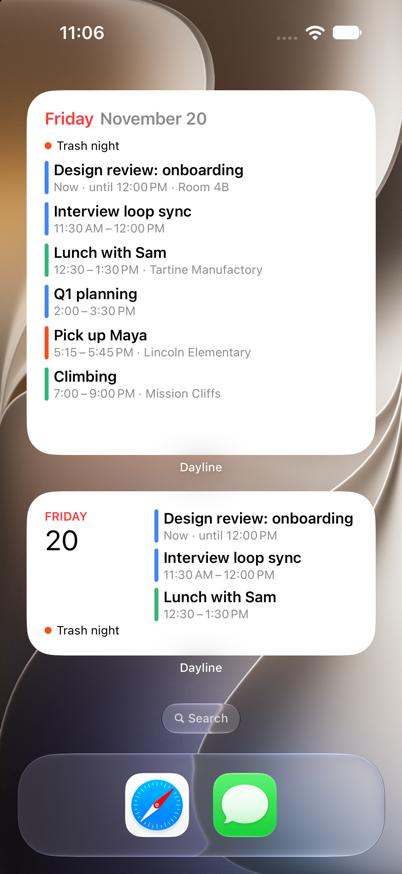
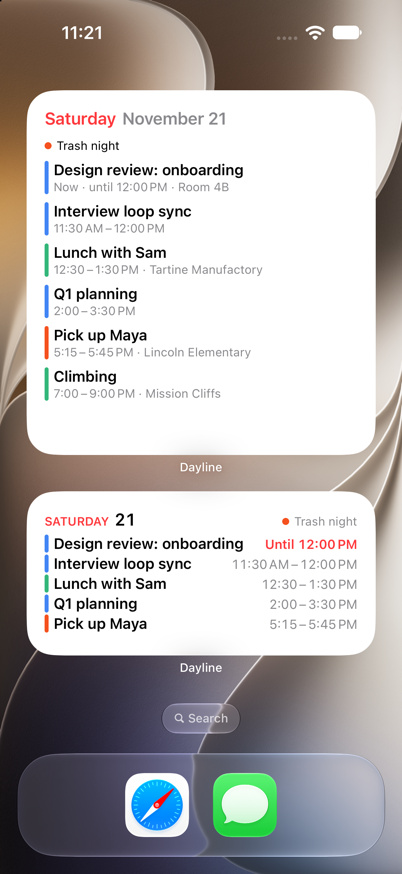
feat: one-line rows in the medium widget (#11)

Changed region(s): [[0.0896, 0.587, 0.8955, 0.7414], [0.1194, 0.1236, 0.5672, 0.1545], [0.1493, 0.0309, 0.2687, 0.0618]]

diff --git a/Sources/DaylineWidget/SystemViews.swift b/Sources/DaylineWidget/SystemViews.swift
@@ -97,32 +97,54 @@ struct MediumUpNextView: View {
     let colors: CalendarColors
 
     var body: some View {
-        HStack(alignment: .top, spacing: 14) {
-            VStack(alignment: .leading, spacing: 4) {
-                DateHeader(date: now)
+        VStack(alignment: .leading, spacing: 5) {
+            HStack(alignment: .firstTextBaseline, spacing: 10) {
+                DateHeader(date: now, compact: true)
+                    .layoutPriority(1)
                 Spacer(minLength: 0)
-                ForEach(glance.allDay.prefix(2)) { event in
-                    AllDayLine(event: event, color: colors.color(for: event))
-                }
-                if glance.allDay.count > 2 {
-                    Text("+\(glance.allDay.count - 2) all-day")
-                        .font(.caption2)
-                        .foregroundStyle(.secondary)
-                }
+                AllDayStrip(events: glance.allDay, colors: colors)
             }
-            .frame(width: 96, alignment: .leading)
-            .frame(maxHeight: .infinity, alignment: .topLeading)
 
             FittingAgenda(
                 lines: AgendaLine.lines(for: glance, includeAllDay: false),
-                maxEvents: 4,
-                spacing: 6,
+                maxEvents: 8,
+                spacing: 2,
                 now: now,
                 colors: colors,
-                showsLocation: false
+                rowStyle: .oneLine
             )
         }
+        .frame(maxWidth: .infinity, maxHeight: .infinity, alignment: .topLeading)
         .widgetURL(DeepLink.today.url)
+    }
+}
+
+struct AllDayStrip: View {
+    let events: [CalendarEvent]
+    let colors: CalendarColors
+
+    var body: some View {
+        ViewThatFits(in: .horizontal) {
+            strip(showing: 2)
+            strip(showing: 1)
+        }
+        .foregroundStyle(.secondary)
+    }
+
+    private func strip(showing count: Int) -> some View {
+        HStack(spacing: 10) {
+            ForEach(events.prefix(count)) { event in
+                Link(destination: DeepLink.event(event.id).url) {
+                    AllDayLine(event: event, color: colors.color(for: event))
+                }
+            }
+            if events.count > count {
+                Text("+\(events.count - count)")
+                    .font(.caption)
+                    .fixedSize()
+                    .accessibilityLabel(Text("\(events.count - count) more all-day events"))
+            }
+        }
     }
 }
 
@@ -150,7 +172,7 @@ struct LargeUpNextView: View {
                 spacing: 8,
                 now: now,
                 colors: colors,
-                showsLocation: true
+                rowStyle: .twoLine
             )
         }
         .frame(maxWidth: .infinity, maxHeight: .infinity, alignment: .topLeading)
@@ -188,13 +210,18 @@ enum AgendaLine {
     }
 }
 
+enum AgendaRowStyle {
+    case twoLine
+    case oneLine
+}
+
 struct FittingAgenda: View {
     let lines: [AgendaLine]
     let maxEvents: Int
     let spacing: CGFloat
     let now: Date
     let colors: CalendarColors
-    let showsLocation: Bool
+    let rowStyle: AgendaRowStyle
 
     var body: some View {
         let candidates = candidates
@@ -232,11 +259,23 @@ struct FittingAgenda: View {
         switch line {
         case .event(let event, let inProgress):
             Link(destination: DeepLink.event(event.id).url) {
-                EventRow(
-                    event: event,
-                    color: colors.color(for: event),
-                    detail: EventTimeText.detail(for: event, inProgress: inProgress, now: now, location: showsLocation)
-                )
+                switch rowStyle {
+                case .twoLine:
+                    EventRow(
+                        event: event,
+                        color: colors.color(for: event),
+                        detail: EventTimeText.detail(for: event, inProgress: inProgress, now: now, location: true)
+                    )
+                case .oneLine:
+                    EventLine(
+                        event: event,
+                        color: colors.color(for: event),
+                        time: inProgress
+                            ? EventTimeText.compact(for: event, inProgress: true, now: now)
+                            : EventTimeText.span(of: event, inProgress: false, now: now),
+                        inProgress: inProgress
+                    )
+                }
             }
         case .allDay(let event):
             Link(destination: DeepLink.event(event.id).url) {

diff --git a/Sources/DaylineWidget/EventPieces.swift b/Sources/DaylineWidget/EventPieces.swift
@@ -109,6 +109,31 @@ struct EventRow: View {
     }
 }
 
+struct EventLine: View {
+    let event: CalendarEvent
+    let color: RGBColor?
+    let time: String
+    let inProgress: Bool
+
+    var body: some View {
+        HStack(alignment: .firstTextBaseline, spacing: 8) {
+            Text(event.title)
+                .font(.subheadline.weight(.semibold))
+                .lineLimit(1)
+            Spacer(minLength: 0)
+            Text(time)
+                .font(.footnote.weight(inProgress ? .semibold : .regular))
+                .monospacedDigit()
+                .foregroundStyle(inProgress ? AnyShapeStyle(.red) : AnyShapeStyle(.secondary))
+                .widgetAccentable(inProgress)
+                .lineLimit(1)
+                .fixedSize()
+        }
+        .calendarBar(color)
+        .accessibilityElement(children: .combine)
+    }
+}
+
 struct AllDayLine: View {
     let event: CalendarEvent
     let color: RGBColor?
